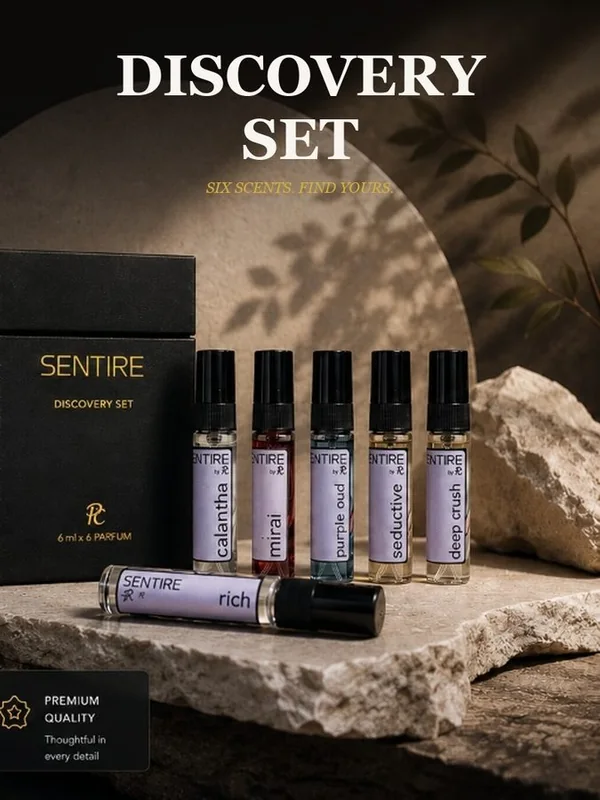
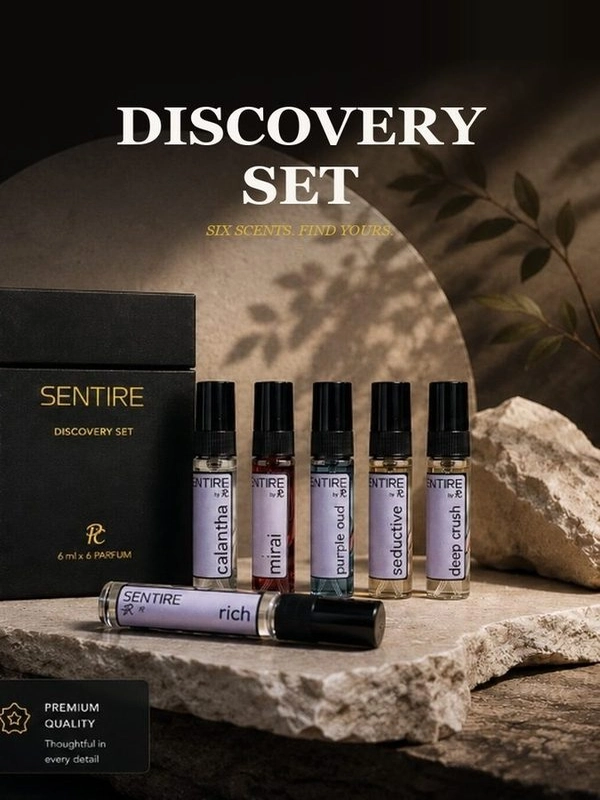
fix(mobile): update sticky filter bar top offset in PerfumesPage to avoid overlap with Navbar on scroll

diff --git a/frontend/src/components/PerfumesPage.tsx b/frontend/src/components/PerfumesPage.tsx
@@ -581,7 +581,7 @@ export default function PerfumesPage({
         </div>{" "}
       </section>{" "}
       {/* ── STICKY CONTROL BAR & QUICK CATEGORIES ── */}
-      <section className="sticky top-[71px] z-20 border-b border-black/8 bg-[#f2f2f0]/95 backdrop-blur-md px-6 lg:px-16 py-3.5 shadow-sm transition-all">
+      <section className="sticky top-[102px] lg:top-[124px] z-20 border-b border-black/8 bg-[#f2f2f0]/95 backdrop-blur-md px-6 lg:px-16 py-3.5 shadow-sm transition-all">
         {" "}
         <div className="mx-auto max-w-[1400px] flex items-center justify-between gap-4 overflow-x-auto scrollbar-none">
           {" "}

diff --git a/frontend/src/components/ShopByCategory.tsx b/frontend/src/components/ShopByCategory.tsx
@@ -8,7 +8,7 @@ const categories = [
   {
     title: "Discovery Set",
     subtitle: "Six Scents. Find Yours.",
-    image: "/images/curated-discovery-set.jpg?v=v6_clean_final",
+    image: "/images/curated-discovery-set-v5.jpg?v=v7_perfect_framing",
     page: "discovery-set" as const,
   },
   {
